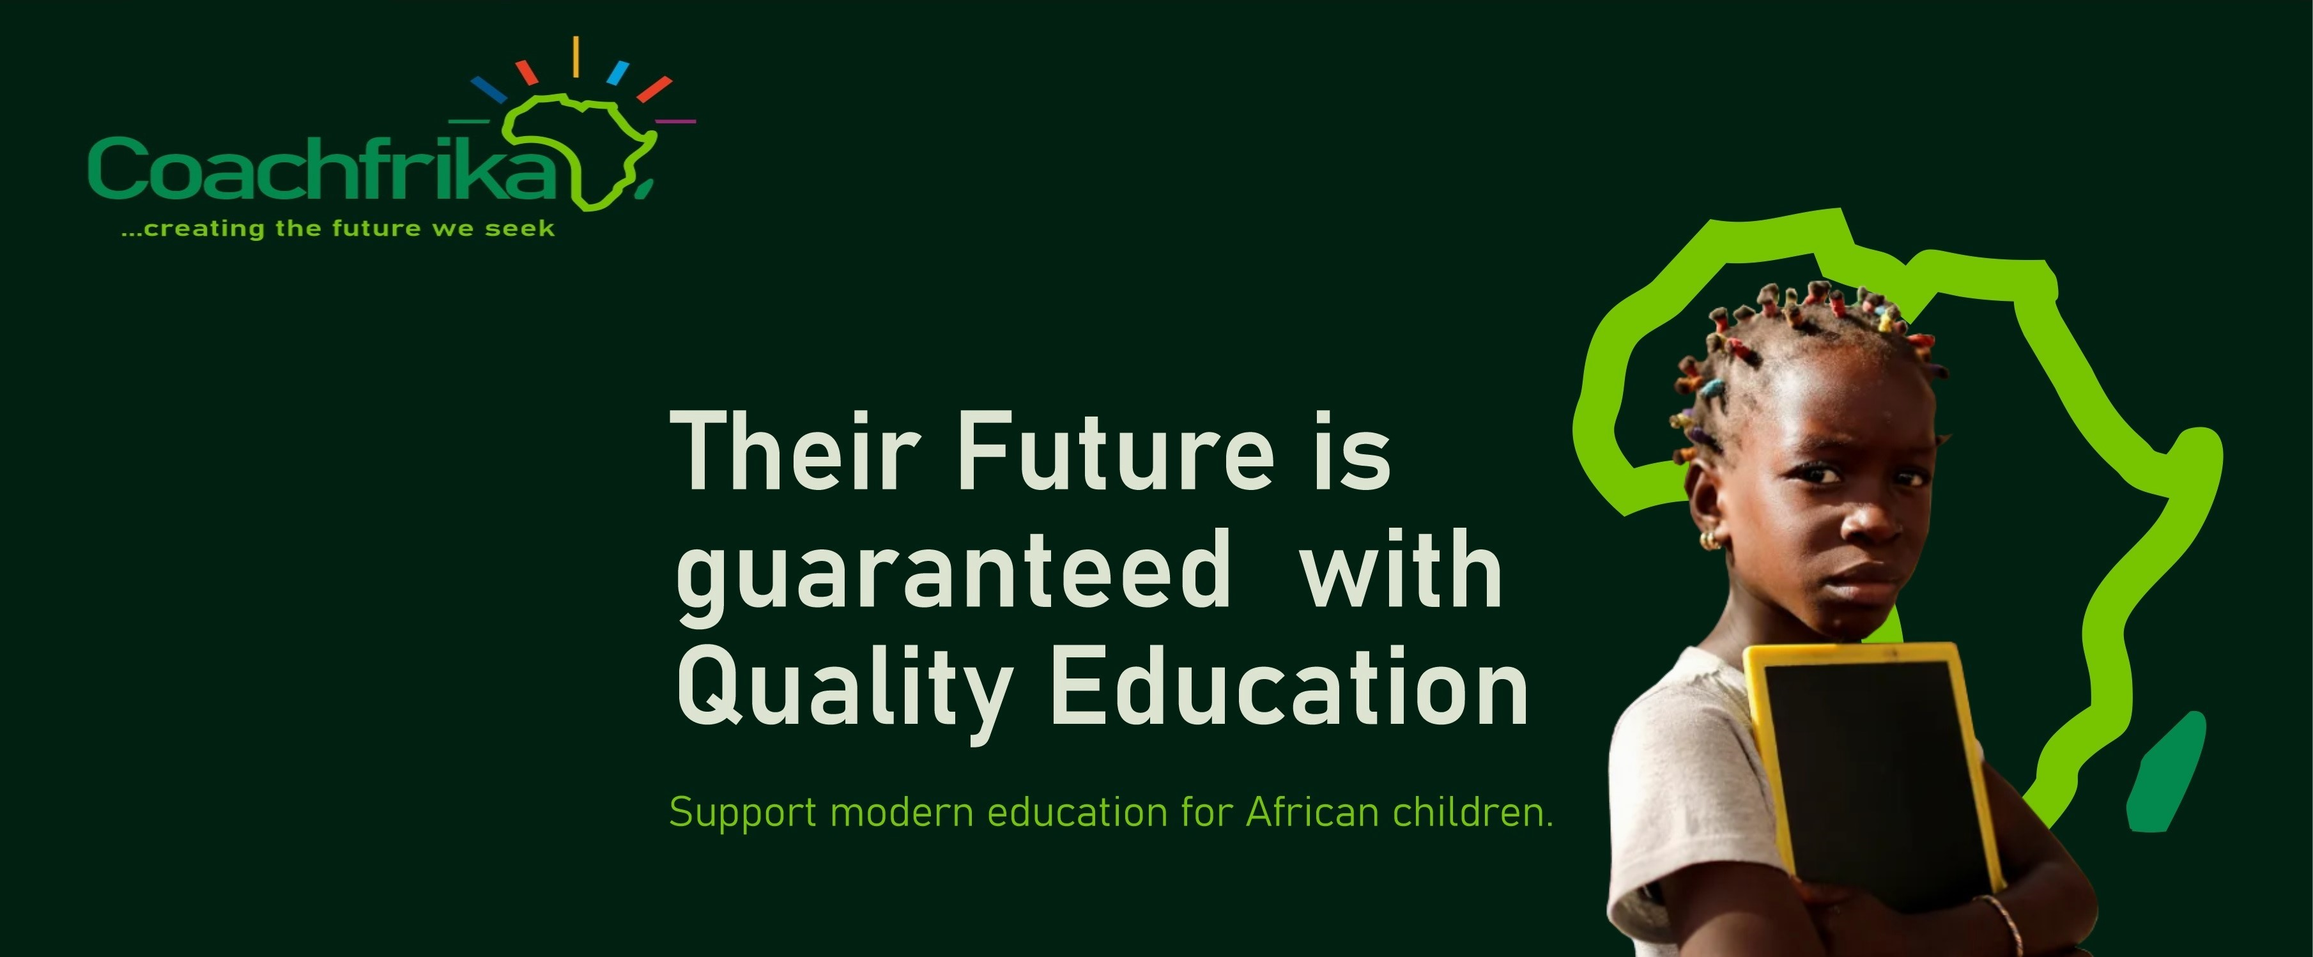
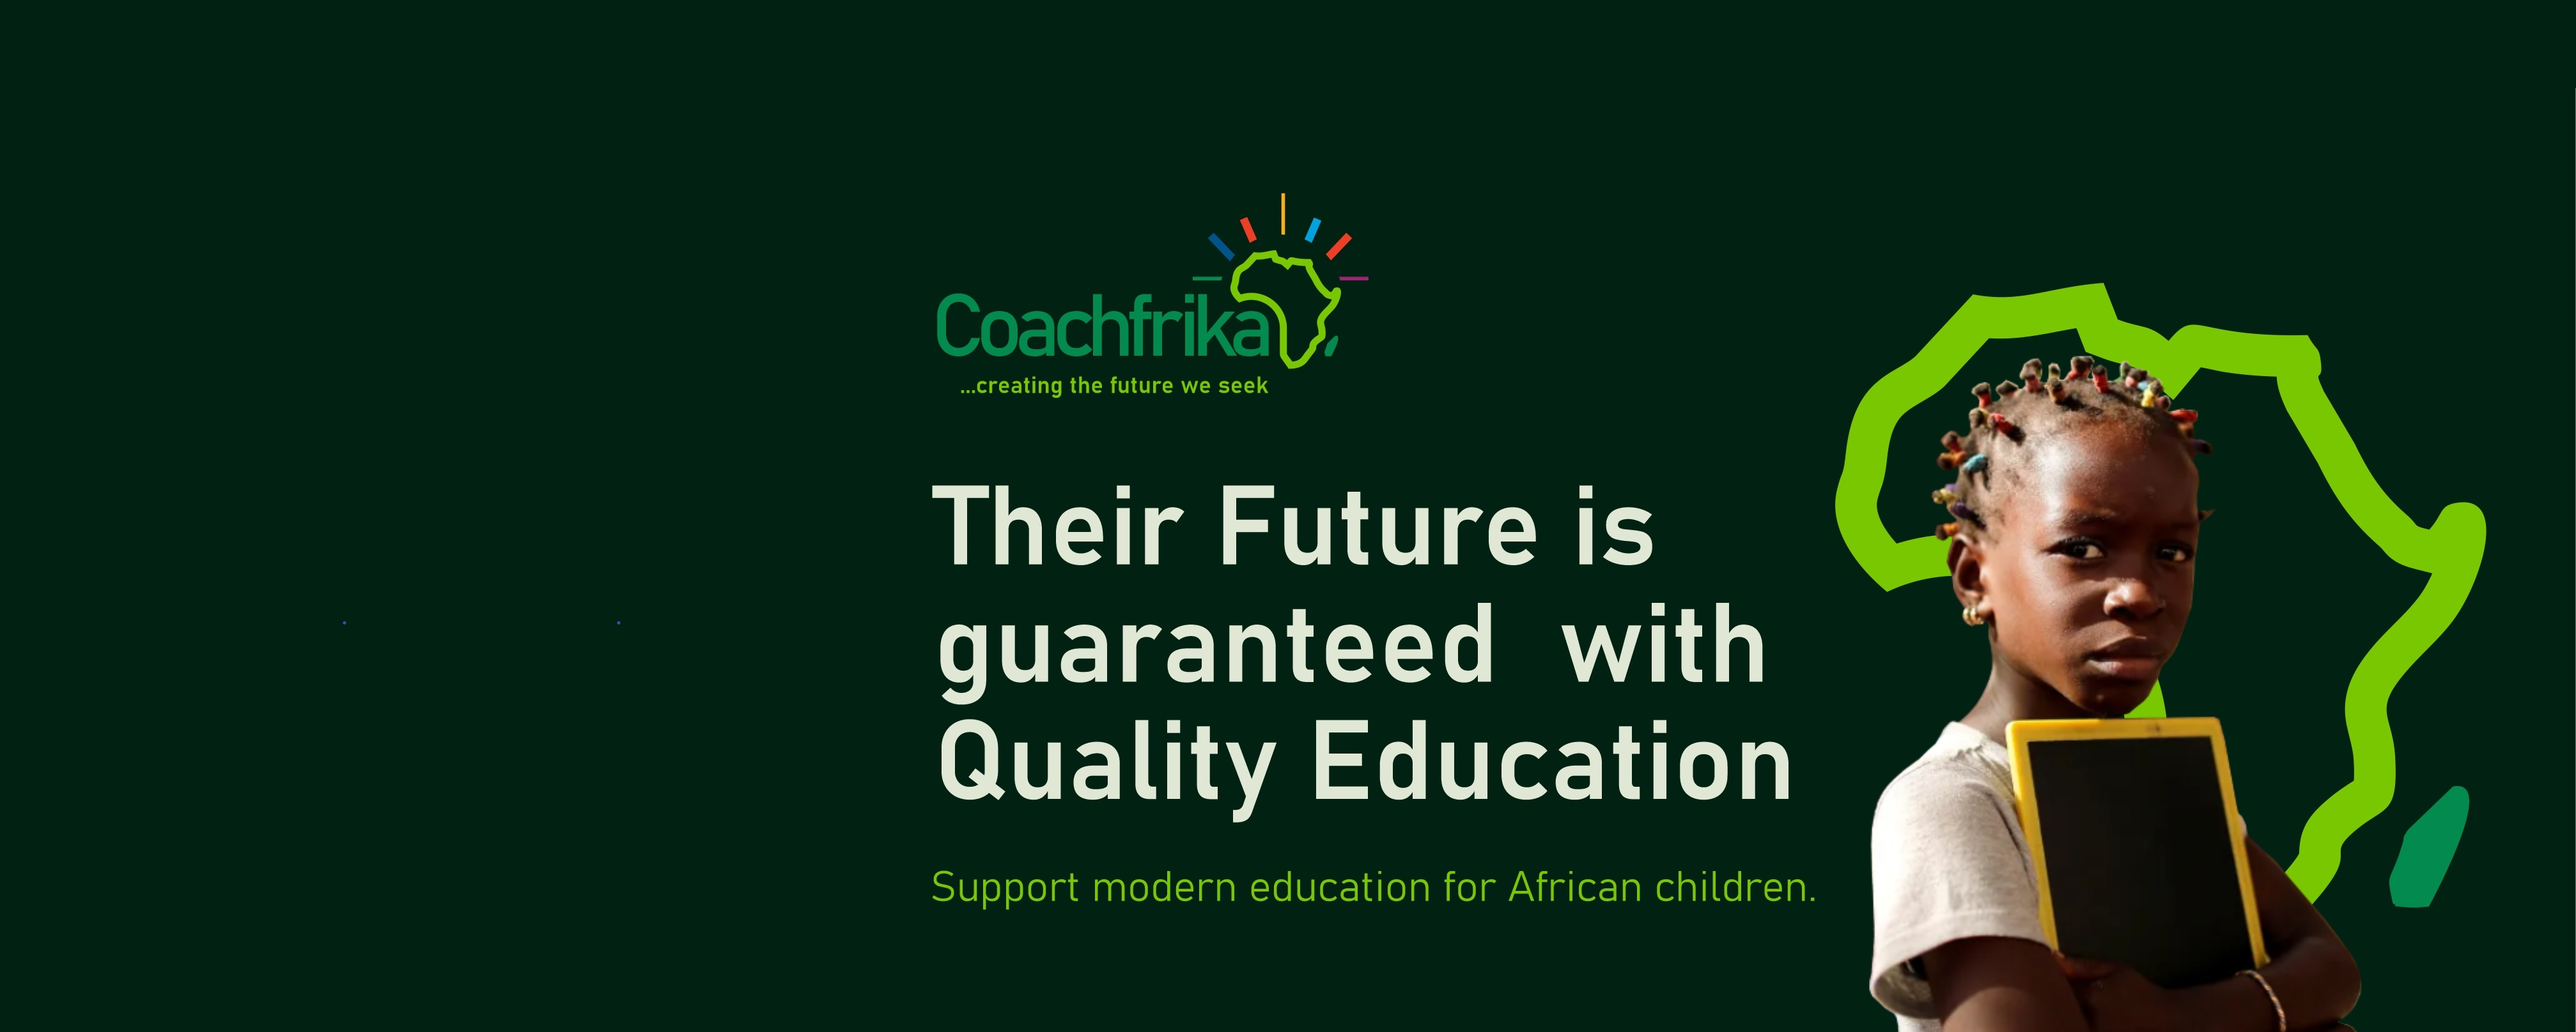
new input

diff --git a/index.html b/index.html
@@ -78,7 +78,7 @@
                            <div class="carousel-item active">
                               <div class="container">
                                  <div class="banner_main">
-                                    <h1 class="banner_taital">COACHFRIKA </h1>
+                                    <h2 class="banner_taital">COACHFRIKA </h2>
                                     <h3 class="banner_taital1"> Vision</h3>
                                     <p class="banner_text">To provide exceptional coaching support to teachers across Africa</p>
                                     <div class="btn_main">
@@ -94,7 +94,7 @@
                            <div class="carousel-item">
                               <div class="container">
                                  <div class="banner_main">
-                                    <h1 class="banner_taital">COACHFRIKA </h1>
+                                    <h2 class="banner_taital">COACHFRIKA </h2>
                                     <h3 class="banner_taital1"> Mission</h3>
                                     <p class="banner_text">To hire enthusiastic educational/leadership coaches who will support African teachers in
                                        building their potential.</p>
@@ -110,7 +110,7 @@
                            <div class="carousel-item">
                               <div class="container">
                                  <div class="banner_main">
-                                    <h1 class="banner_taital">COACHFRIKA</h1>
+                                    <h2 class="banner_taital">COACHFRIKA</h2>
                                     <h3 class="banner_taital1">Our Outcomes</h3>
                                     <p class="banner_text">● Teachers create a clear plan for their learners' leadership growth. <br/>
                                        ● Teachers have a clear plan for their professional and personal growth.
@@ -155,7 +155,7 @@
             <div class="about_section_2">
                <div class="row">
                   <div class="col-lg-6">
-                     <div class="about_image"><img src="images/about.jpg" alt=""></div>
+                     <div class="about_image"><img src="images/coachAbout.jpg" alt=""></div>
                   </div>
                   <div class="col-lg-6">
                      <div class="about_taital_main">
@@ -178,90 +178,57 @@
       </div>
       <!--about section end -->
       <!-- services section start -->
-      <div class="services_section layout_padding">
+      <div class="services_section ">
          <div class="container" id="services">
             <h1 class="services_taital">What We Do</h1>
             <p class="about_text">we aim to provide excellent coaching for teachers across Africa ...</p>
             <div class="services_section_2">
-               <div class="row">
-                  <div class="col-lg-4">
-                     <div class="icon_box">
-                        <div class="icon_1"><img src="images/icon-1.png" alt="" ></div>
-                     </div>
-                     <h4 class="selection_text">Coaching Support</h4>
-                     <p class="ipsum_text">provides coaching support for teachers both in public
-                        and private schools across Nigeria towards excellent education</p>
-                     <div class="icon_box">
-                        <div class="icon_1"><img src="images/icon-4.png" alt="" ></div>
-                     </div>
-                     <h4 class="selection_text">Coachee Enrollment</h4>
-                     <p class="ipsum_text">Coachee enrolls on our coaching system through Coachfrika application form</p>
-                  </div>
-                  <div class="col-lg-4">
-                     <div class="icon_box">
-                        <div class="icon_1"><img src="images/icon-2.png" alt="" ></div>
-                     </div>
-                     <h4 class="selection_text"> Monitoring and Evaluation</h4>
-                     <p class="ipsum_text">There are many variations of passages of Lorem Ipsum available, but the form, by injected humour, or randomised</p>
-                     <div class="icon_box">
-                        <div class="icon_1"><img src="images/icon-5.png" alt="" ></div>
-                     </div>
-                     <h4 class="selection_text">Consultancy</h4>
-                     <p class="ipsum_text">There are many variations of passages of Lorem Ipsum available, but the form, by injected humour, or randomised</p>
-                  </div>
-               </div>
+               <div class="what_we_do"><img src="images/what_we_do.jpg" alt="" ></div>
             </div>
          </div>
       </div>
       <!-- services section end -->
     
-      <!-- events section start -->
-      <div class="events_section layout_padding">
-         <div class="container" id="events">
-            <h1 class="events_taital">Follow Our Video For Solved Your Problem</h1>
-            <div class="events_section_2">
-               <div class="events_bg">
-                  <div class="play_icon"><a href="#"><img src="images/play-icon.png" alt="" ></a></div>
-               </div>
-            </div>
-            <div class="seemore_bt"><a href="#">See More</a></div>
-         </div>
-      </div>
-      <!-- events section end -->
-      
       <!-- testimonial section start -->
       <div class="testimonial_section layout_padding">
          <div id="my_carousel" class="carousel slide" data-ride="carousel">
             <ol class="carousel-indicators">
                <li data-target="#my_carousel" data-slide-to="0" class="active"></li>
                <li data-target="#my_carousel" data-slide-to="1"></li>
-               <li data-target="#my_carousel" data-slide-to="2"></li>
             </ol>
             <div class="carousel-inner">
+               <h1 class="testimonial_taital">Testimonial</h1>
+               <p class="testimonial_text">What people say about us</p>
                <div class="carousel-item active">
                   <div class="container">
-                     <h1 class="testimonial_taital">Testimonial</h1>
-                     <p class="testimonial_text">majority have suffered alteration in some form, by injected humour, or </p>
                      <div class="testimonial_section_2">
                         <div class="row">
                            <div class="col-md-6">
                               <div class="testimonial_box">
                                  <div class="jonimo_taital_main">
-                                    <h4 class="jonimo_text">Jonimo</h4>
+                                    <h4 class="jonimo_text">Oladipupo David</h4>
                                     <div class="quick_icon"><img src="images/quick-icon.png" alt="" ></div>
                                     <div class="quick_icon_1"><img src="images/quick-icon1.png" alt="" ></div>
                                  </div>
-                                 <p class="dummy_text">There are many variations of passages of Lorem Ipsum available, but the majority have suffered alteration in some form, by injected humour, or randomised words which don't look even slightly believable. If you are going to use a passage of Lorem Ipsum, you need to be sure there</p>
+                                 <p class="dummy_text">Coachfrika has had a profound impact on my personal 
+                                    and professional growth. I am grateful for his guidance, support,
+                                     and the values he has instilled in me. I would highly recommend
+                                      him to anyone looking for a mentor or coach who genuinely cares
+                                       about their development and success.
+                                 </p>
                               </div>
                            </div>
                            <div class="col-md-6">
                               <div class="testimonial_box">
                                  <div class="jonimo_taital_main">
-                                    <h4 class="jonimo_text">Mark Duo</h4>
+                                    <h4 class="jonimo_text">Friday Onoja</h4>
                                     <div class="quick_icon"><img src="images/quick-icon.png" alt="" ></div>
                                     <div class="quick_icon_1"><img src="images/quick-icon1.png" alt=""  ></div>
                                  </div>
-                                 <p class="dummy_text">There are many variations of passages of Lorem Ipsum available, but the majority have suffered alteration in some form, by injected humour, or randomised words which don't look even slightly believable. If you are going to use a passage of Lorem Ipsum, you need to be sure there</p>
+                                 <p class="dummy_text">I am excited to express my deep gratitude to a 
+                                    remarkable coach, Afeez Iyiola. His coaching has been instrumental 
+                                    throughout my fellowship journey, and it has helped me discover the power of
+                                     self-confidence and belief in oneself to achieve success.</p>
                               </div>
                            </div>
                         </div>
@@ -270,58 +237,36 @@
                </div>
                <div class="carousel-item">
                   <div class="container">
-                     <h1 class="testimonial_taital">Testimonial</h1>
-                     <p class="testimonial_text">majority have suffered alteration in some form, by injected humour, or </p>
-                     <div class="testimonial_section_2">
+                      <div class="testimonial_section_2">
                         <div class="row">
                            <div class="col-md-6">
                               <div class="testimonial_box">
                                  <div class="jonimo_taital_main">
-                                    <h4 class="jonimo_text">Jonimo</h4>
+                                    <h4 class="jonimo_text">Esther Soyinka</h4>
                                     <div class="quick_icon"><img src="images/quick-icon.png" alt=""  alt="" ></div>
                                     <div class="quick_icon_1"><img src="images/quick-icon1.png" alt="" ></div>
                                  </div>
-                                 <p class="dummy_text">There are many variations of passages of Lorem Ipsum available, but the majority have suffered alteration in some form, by injected humour, or randomised words which don't look even slightly believable. If you are going to use a passage of Lorem Ipsum, you need to be sure there</p>
+                                 <p class="dummy_text">Prior to when he started coaching me, I was
+                                     in between timid and outspoken but on having him as my coach,
+                                      he helped me gain increased self awareness, I was able to 
+                                      discover my strength and weakness. This self awareness has
+                                       improved my decision making and led to my professional and personal growth.
+                                    Coach Afeez ensured that I set SMART goals at the beginning 
+                                    of every quarter and create clear plan to achieving them, this
+                                     helped me to be focus and stay motivated.
+                                    
+                                    </p>
                               </div>
                            </div>
                            <div class="col-md-6">
                               <div class="testimonial_box">
                                  <div class="jonimo_taital_main">
-                                    <h4 class="jonimo_text">Mark Duo</h4>
+                                    <h4 class="jonimo_text">Michael Odebode</h4>
                                     <div class="quick_icon"><img src="images/quick-icon.png" alt="" ></div>
                                     <div class="quick_icon_1"><img src="images/quick-icon1.png" alt="" ></div>
                                  </div>
-                                 <p class="dummy_text">There are many variations of passages of Lorem Ipsum available, but the majority have suffered alteration in some form, by injected humour, or randomised words which don't look even slightly believable. If you are going to use a passage of Lorem Ipsum, you need to be sure there</p>
-                              </div>
-                           </div>
-                        </div>
-                     </div>
-                  </div>
-               </div>
-               <div class="carousel-item">
-                  <div class="container">
-                     <h1 class="testimonial_taital">Testimonial</h1>
-                     <p class="testimonial_text">majority have suffered alteration in some form, by injected humour, or </p>
-                     <div class="testimonial_section_2">
-                        <div class="row">
-                           <div class="col-md-6">
-                              <div class="testimonial_box">
-                                 <div class="jonimo_taital_main">
-                                    <h4 class="jonimo_text">Jonimo</h4>
-                                    <div class="quick_icon"><img src="images/quick-icon.png" alt="" ></div>
-                                    <div class="quick_icon_1"><img src="images/quick-icon1.png" alt="" ></div>
-                                 </div>
-                                 <p class="dummy_text">There are many variations of passages of Lorem Ipsum available, but the majority have suffered alteration in some form, by injected humour, or randomised words which don't look even slightly believable. If you are going to use a passage of Lorem Ipsum, you need to be sure there</p>
-                              </div>
-                           </div>
-                           <div class="col-md-6">
-                              <div class="testimonial_box">
-                                 <div class="jonimo_taital_main">
-                                    <h4 class="jonimo_text">Mark Duo</h4>
-                                    <div class="quick_icon"><img src="images/quick-icon.png" alt="" ></div>
-                                    <div class="quick_icon_1"><img src="images/quick-icon1.png" alt="" ></div>
-                                 </div>
-                                 <p class="dummy_text">There are many variations of passages of Lorem Ipsum available, but the majority have suffered alteration in some form, by injected humour, or randomised words which don't look even slightly believable. If you are going to use a passage of Lorem Ipsum, you need to be sure there</p>
+                                 <p class="dummy_text">As a passionate teacher, my initial challenge was to improve my pupils' literacy skills. I tried different methods, such as play-based learning, but only a few students showed interest. However, when my coach visited me on the first day, he gave me invaluable tips on creating a friendly learning environment to overcome the language barrier. From that day on, 95% of my students were eager to learn.
+                                 </p>
                               </div>
                            </div>
                         </div>
@@ -337,7 +282,7 @@
       <div class="contact_section layout_padding">
          <div class="container" id="contact">
             <h1 class="contact_taital">Get In Touch</h1>
-            <p class="contact_text"> Search out to CoachFrika today... </p>
+            <p class="contact_text"> Reach out to CoachFrika today... </p>
             <div class="contact_section_2 layout_padding">
                <div class="row">
                   <div class="col-md-6">
@@ -354,10 +299,11 @@
                   
                   </div>
                   <div class="col-md-6">
-                     <div class="map_main">
-                        <div class="map-responsive">
+                     <div class="contact_img_main">
+                        <!-- <div class="map-responsive">
                            <iframe src="https://maps.google.com/maps?q=abeokuta&t=k&z=17&ie=UTF8&iwloc=&output=embed" width="600" height="400" frameborder="0" style="border:0; width: 100%;" allowfullscreen=""></iframe>
-                        </div>
+                        </div> -->
+                        <img src="images/contactus.jpg" alt="">
                        </div>
                </div>
             </div>

diff --git a/css/style.css b/css/style.css
@@ -225,7 +225,7 @@ button {
 
 .header_section {
     width: 100%;
-    background-image: url(../images/banner1.jpg);
+    background-image: url(../images/banner-bg.jpg);
     background-size: cover;
     background-repeat: no-repeat;
     height: auto;
@@ -275,23 +275,23 @@ button {
     border-bottom: 80px solid #13a25d;
 }
 .banner_main {
-    width: 44%;
+    width: 32%;
     float: left;
     background: #fff;
-    padding: 40px;
+    padding: 20px;
 }
 
 .banner_taital {
     width: 100%;
     float: left;
-    font-size: 48px;
+    font-size: 36px;
     color: #060707;
     font-weight: bold;
 }
 .banner_taital1 {
     width: 100%;
     float: left;
-    font-size: 48px;
+    font-size: 28px;
     color: #060707;
 }
 .banner_text {
@@ -396,7 +396,7 @@ button {
 }
 
 .about_taital {
-    width: 35%;
+    width: 32%;
     float: left;
     font-size: 40px;
     color: #0f0f0f;
@@ -465,7 +465,8 @@ button {
 .services_section{
     width: 100%;
     float: left;
-    background-image: url(../images/services-bg.png);
+    background-color: #13a25d;
+    padding: 40px;
     background-size: 100%;
     background-repeat: no-repeat;
 }
@@ -757,12 +758,15 @@ textarea#comment::placeholder {
     font-family: 'Roboto', sans-serif;
 }
 .testimonial_text{
+    padding: 0 40px;
+    background-color: #13a25d;
     width: 100%;
     float: left;
-    font-size: 16px;
-    color: #2c2420;
+    font-size: 18px;
+    font-weight: bold;
     text-align: center;
     margin: 0px;
+    color: white;
     font-family: 'Roboto', sans-serif;
 }
 .testimonial_section_2 {
